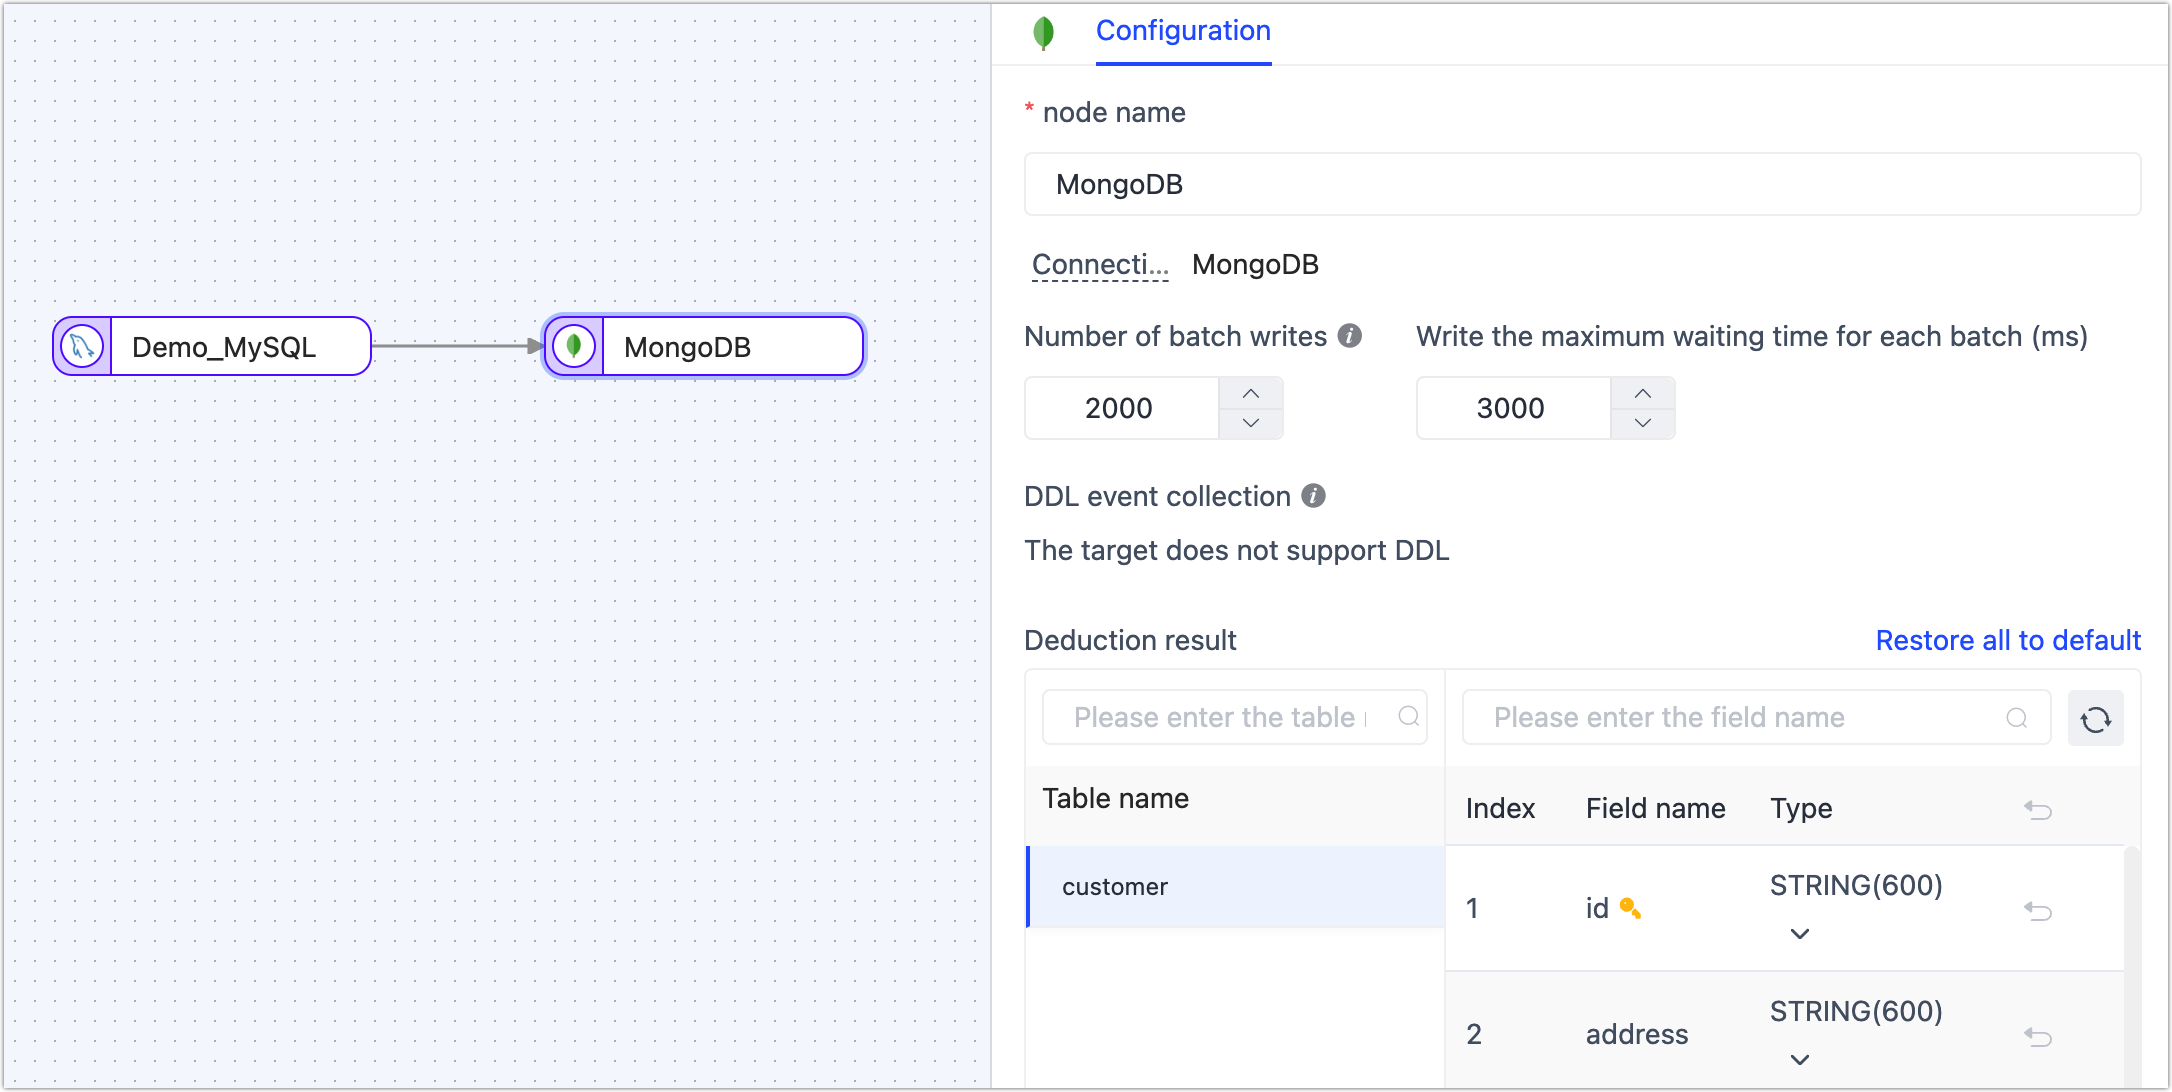
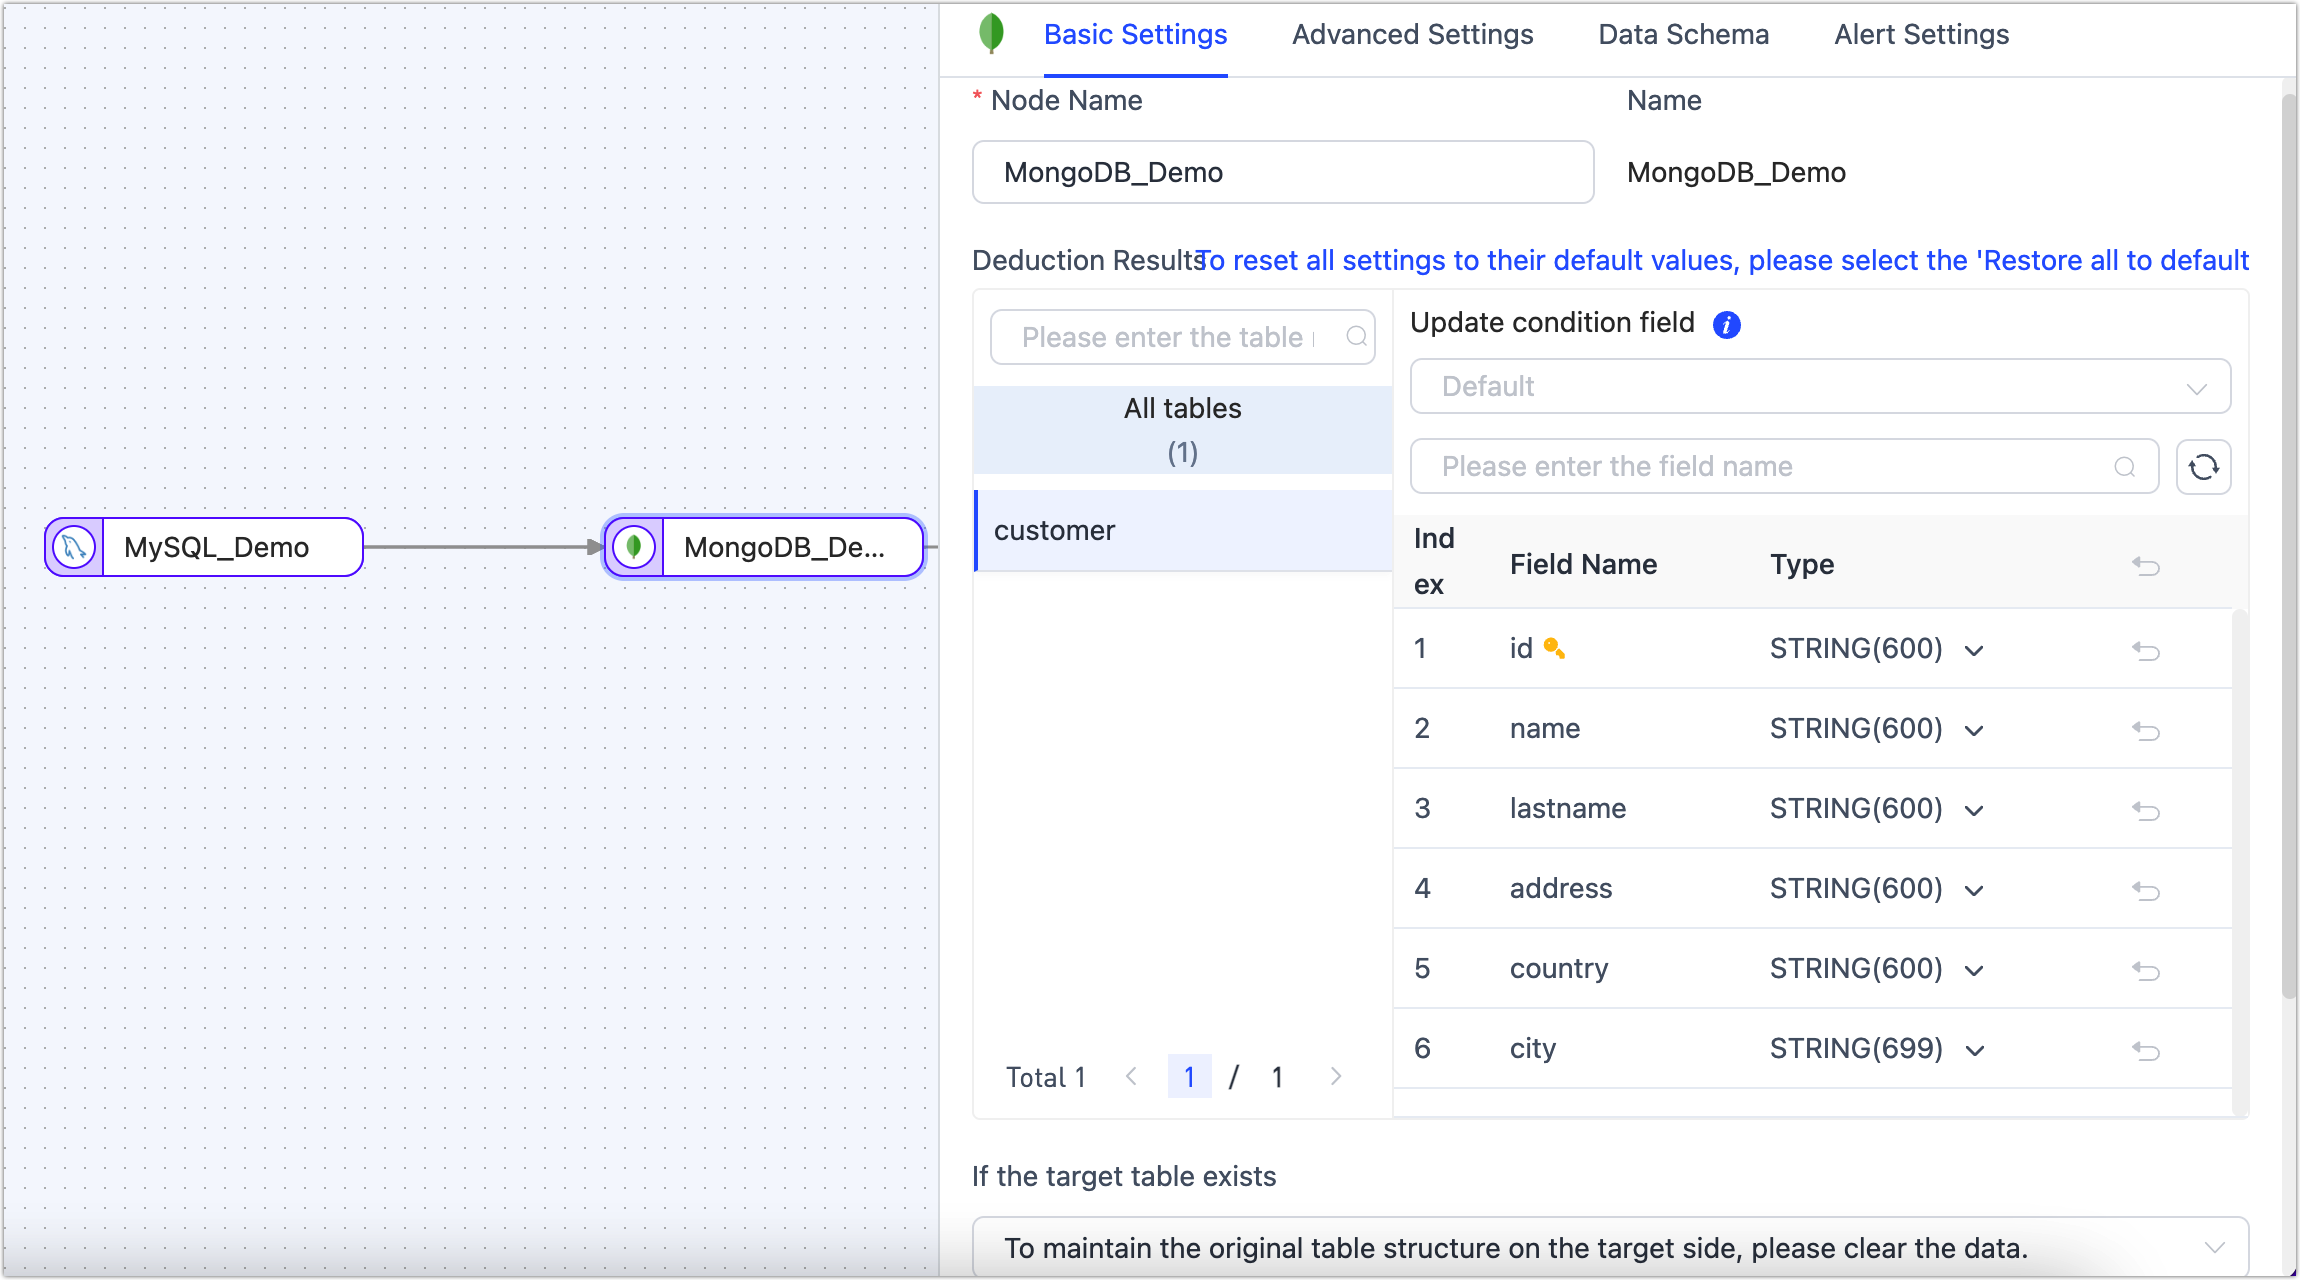
Release: 20231020

diff --git a/docs/cloud/user-guide/copy-data/create-task.md b/docs/cloud/user-guide/copy-data/create-task.md
@@ -41,34 +41,56 @@ As an example of creating a data replication task, the article demonstrates the 
 
    ![Source Settings](../../images/data_source_settings.png)
 
-   * **Node name**: Defaults to connection name, you can also set a name that has business significance.
-   * **DDL event collection**: After enabling the switch, Tapdata Cloud will automatically capture the selected source DDL events, such as the addition of new fields. If the target database supports DDL writing, Tapdata Cloud can synchronize the DDL statements to ensure consistency between the source and target databases.
-   * **Select table**: Choose which tables you want to sync.
-      * **Select by table name**: Select the table on the left, and then click the right arrow to complete the setup.
-      * **Match regular expressions**: Enter the regular expression for the table name. Additionally, when a table is added to the source database and it matches the specified expression, Tapdata Cloud will automatically synchronize the table to the target database.
-   * **Batch read number**: The number of records read in each batch during full data synchronization, the default is **100**.
+   * **Basic Settings**      
+
+      * **Node Name**: By default, it's the connection name, but you can also set a meaningful business name.
+      * **Select Table**: Select the source table to operate. The table structure, including column names and types, will be displayed below.      
+        * **Select by table name**: Select the table on the left, and then click the right arrow to complete the setup.
+        * **Match regular expressions**: Enter the regular expression for the table name. Additionally, when a table is added to the source database and it matches the specified expression, Tapdata Cloud will automatically synchronize the table to the target database.
+        * **Selectable table range**: By default, all tables are displayed, but you can choose to filter only tables with primary keys or only tables without primary keys. Since tables without primary keys use the full primary key method to implement data updates, they might encounter errors due to exceeding the index length limit, and their performance might be limited. Therefore, it is recommended that you create separate data replication tasks for tables without primary keys to avoid task errors and enhance the performance of data updates.
+
+   * **Advanced Settings**      
+
+      * **DDL Synchronization**      
+        Choose whether to enable **DDL Event Collection**. When this switch is on, Tapdata will automatically collect the DDL events (like adding fields) from the selected source. If the target side supports DDL writing, the DDL statements can be synchronized.      
+
+      * **Incremental Method**      
+        Choose **Log CDC** or **Polling**. If you select **Polling**, you'll also need to specify the polling field, interval, and number of rows read each time.
+
+        **Log CDC** will use the data source's transaction log to parse and sync incremental events. **Polling** will sync incremental events by polling a field, but it often can't sync delete events.      
+
+      * **Data Filter**      
+
+        * **Fully Customizable Query**: Turn this on to input a custom SQL query for full data sync (doesn't affect the incremental stage). For example, `SELECT id,name,address FROM customer;`.
+          :::tip
+          To use this feature, the target node must be a weak Scheme type of data source (like MongoDB/Kafka) etc.
+          ::: 
+        * **Filter Settings**: Off by default. Turn it on to specify data filtering conditions.      
+
+      * **Batch Read Number**: For full data sync, the number of records read per batch. Default is **100**.     
 
 6. Click on the target node, which in this example is MongoDB, to configure the parameters in the right panel based on the following instructions.
 
-   1. Set up the node's basic settings.
+   ![Basic settings](../../images/data_copy_normal_setting.png)
 
-      ![Basic settings](../../images/data_copy_normal_setting.png)
-
-      * **Node name**: Defaults to connection name, you can also set a name that has business significance.
-      * **Number of batch writes**: The number of entries written in each batch during full data synchronization.
-      * **Write the maximum waiting time for each batch**: Set the maximum wait time in milliseconds, based on the performance of the target database and the network delay evaluation.
-      * **Deduction result**: According to the settings of the source node, Tapdata will write table structure information to the target.
-
-   2. Scroll down to the **Advanced Settings** area to complete the advanced setup.
-
-      ![Advanced settings](../../images/data_copy_advance_setting.png)
-
-      - **Duplicate processing strategy**: Choose how duplicate data should be handled.
-      - **Data write mode**: Keep the default, or select according to business needs.
-         - **Process by event type**: Select the data write policy for inserts, updates, and deletes events.
-         - **Statistics additional write**: Handles only insert events, discards updates, and deletes events.
-      - **Full multi-threaded write**: The number of concurrent threads for writing full data is set to the default value of **8**. You can adjust this value based on the write performance of the target database.
-      - **Incremental multi-threaded write**: The number of concurrent threads for writing incremental data is disabled by default. You can adjust this value based on the write performance of the target database.
+   * **Basic Settings**
+     * **Node Name**: Defaults to the connection name; you can also set a name that has business significance.
+     * **Deduction Results**: Displays table structure information that Tapdata Cloud will write into the target, deduced from the source node setting. The update condition will be automatically set as the table's primary key, or if there isn’t one, a unique index field will be used.
+     * **Duplication Handling Strategy**: Choose according to business needs; defaults to **To maintain the origina table structure on the target side, please clear the data**.
+     * **Full Multi-thread Writing**: The number of concurrent threads for writing full data; default is **8**.
+     * **Incremental Multi-thread Writing**: The number of concurrent threads for writing incremental data.
+     * **Batch Write Item Quantity**: The number of items written per batch during full synchronization.
+     * **Max Wait Time per Batch Write**: Set the maximum waiting time per batch write, evaluated based on the target database’s performance and network latency, in milliseconds.
+   * <span id="advanced-settings">**Advanced Settings**</span>
+     * **Data Writing Mode**: Select according to business needs.
+       * **Process by Event Type**: If you choose this, you also need to select data writing strategies for insert, update, and delete events.
+       * **Statistical Append Write**: Only processes insert events, discarding update and delete events.
+     * **Data Source Exclusive Configuration**: Choose whether to save deleted data.
+     * **Synchronize Partition Properties**: When this feature is enabled, Tapdata Cloud will automatically create a sharded collection in the target database. This function is only effective when both the source and target databases are MongoDB clusters.
+   * **Data Model**
+     Displays table structure information of the target table, including field names and field types.
+   * **Alert Settings**
+     Defaults as per source node alert settings.
 
 7. (Optional) Click the ![setting](../../images/setting.png) icon above to configure the <span id="task-attr">task properties</span>.
 

diff --git a/docs/cloud/release-notes.md b/docs/cloud/release-notes.md
@@ -4,6 +4,24 @@ To enhance the user experience, Tapdata Cloud continuously enriches and optimize
 
 
 
+### 2023-10-20
+
+### New Features
+
+- Added support for [automatically creating sharded collections](user-guide/copy-data/create-task#advanced-settings) when MongoDB Cluster is set as the target.
+- Added support for disabling node capabilities when configuring tasks. You can access this feature by hovering over a node, which can help reduce the cost of data flow during processing.
+
+### Feature Enhancements
+
+- When [configuring data replication tasks](user-guide/copy-data/create-task.md), you can now quickly filter tables with or without primary keys through the "**Selectable table range**" dropdown. Tables with primary keys include those without primary keys but with unique indexes.
+- Added a Demo data source to the onboarding guide flow for new users, helping you quickly complete the tutorial and set up your first data flow task.
+- Optimized the front-end display effects of operation buttons on the engine interface.
+
+### Bug Fixes
+
+- Fixed an issue where an error occurred in MongoDB as a target during an INSERT operation when there was no shard key.
+- Fixed an issue where MongoDB did not support REPLACE properly, and the fields deleted by REPLACE could not be properly removed.
+
 ## 2023-10-08
 
 ### New Features
